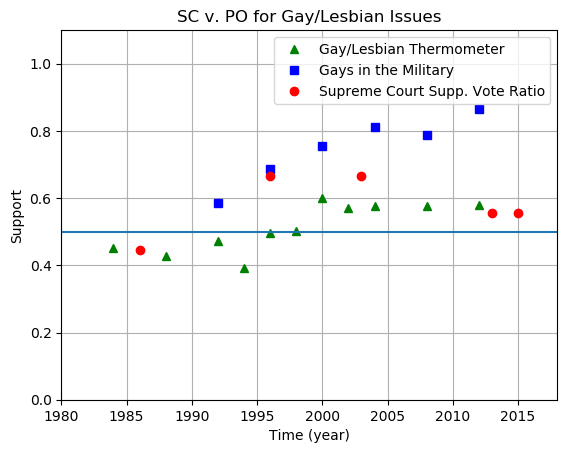
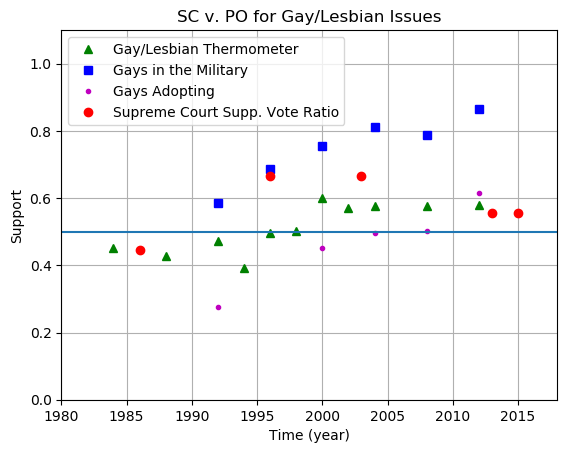
added PO question
added third PO question. worked surprisingly well!

Changed region(s): [[0.1193, 0.0927, 0.9544, 0.2781], [0.8947, 0.1236, 0.9246, 0.1545], [0.8351, 0.4018, 0.8649, 0.4327]]

diff --git a/plots.py b/plots.py
@@ -27,6 +27,7 @@ plt.gcf().clear()
 #public support for gay issues
 plt.plot(gay_temp_yr_avg.keys(),gay_temp_yr_avg.values(),'g^',label='Gay/Lesbian Thermometer')
 plt.plot(gay_mil_yr_avg.keys(),gay_mil_yr_avg.values(),'bs',label='Gays in the Military')
+plt.plot(gay_adopt_yr_avg.keys(),gay_adopt_yr_avg.values(),'m.',label='Gays Adopting')
 
 plt.axhline(y=.5)
 
@@ -36,7 +37,7 @@ plt.ylabel('Support')
 plt.title('Public Support for Gay/Lesbian Issues')
 plt.grid(True)
 
-min_yr=min(list(sc_support.keys())+list(gay_temp_yr_avg.keys())+list(gay_mil_yr_avg.keys()))
+min_yr=min(list(sc_support.keys())+list(gay_temp_yr_avg.keys())+list(gay_mil_yr_avg.keys())+list(gay_adopt_yr_avg.keys()))
 plt.axis([min_yr-4, CURRENT_YEAR, 0.0, 1.1])
 
 plt.savefig('./plots/po_support.png', bbox_inches='tight')
@@ -49,6 +50,7 @@ plt.gcf().clear()
 #public support for gay issues
 plt.plot(gay_temp_yr_avg.keys(),gay_temp_yr_avg.values(),'g^',label='Gay/Lesbian Thermometer')
 plt.plot(gay_mil_yr_avg.keys(),gay_mil_yr_avg.values(),'bs',label='Gays in the Military')
+plt.plot(gay_adopt_yr_avg.keys(),gay_adopt_yr_avg.values(),'m.',label='Gays Adopting')
 
 #supreme court decisions
 plt.plot(sc_support.keys(),sc_support.values(),'ro',label='Supreme Court Supp. Vote Ratio')
@@ -61,7 +63,7 @@ plt.ylabel('Support')
 plt.title('SC v. PO for Gay/Lesbian Issues')
 plt.grid(True)
 
-min_yr=min(list(sc_support.keys())+list(gay_temp_yr_avg.keys())+list(gay_mil_yr_avg.keys()))
+min_yr=min(list(sc_support.keys())+list(gay_temp_yr_avg.keys())+list(gay_mil_yr_avg.keys())+list(gay_adopt_yr_avg.keys()))
 plt.axis([min_yr-4, CURRENT_YEAR, 0.0, 1.1])
 
 plt.savefig('./plots/sc_v_po.png', bbox_inches='tight')

diff --git a/sc_po_anal.py b/sc_po_anal.py
@@ -148,3 +148,19 @@ gay_mil_conv={1:3,2:2,4:1,5:0}
 MAX_GAY_MIL=max(gay_mil_conv.values())
 gay_mil_scale=(lambda x: gay_mil_conv[x])
 gay_mil_yr_avg=col_yr_avg(1,MAX_GAY_MIL,gay_mil_scale)
+
+#question VCF0878 - ISSUES: Should Gays/Lesbians Be Able to Adopt Children
+#---------
+#VALID_CODES:
+#------------
+#1.  Yes -----> 1
+#5.  No ------> 0
+#8.  DK ------> nan
+#MISSING_CODES:
+#--------------
+#9.  NA; no Post IW
+#INAP. Inap. question not used
+gay_adopt_conv={1:1,5:0}
+MAX_GAY_ADOPT=max(gay_adopt_conv.values())
+gay_adopt_scale=(lambda x: gay_adopt_conv[x])
+gay_adopt_yr_avg=col_yr_avg(2,MAX_GAY_ADOPT,gay_adopt_scale)
